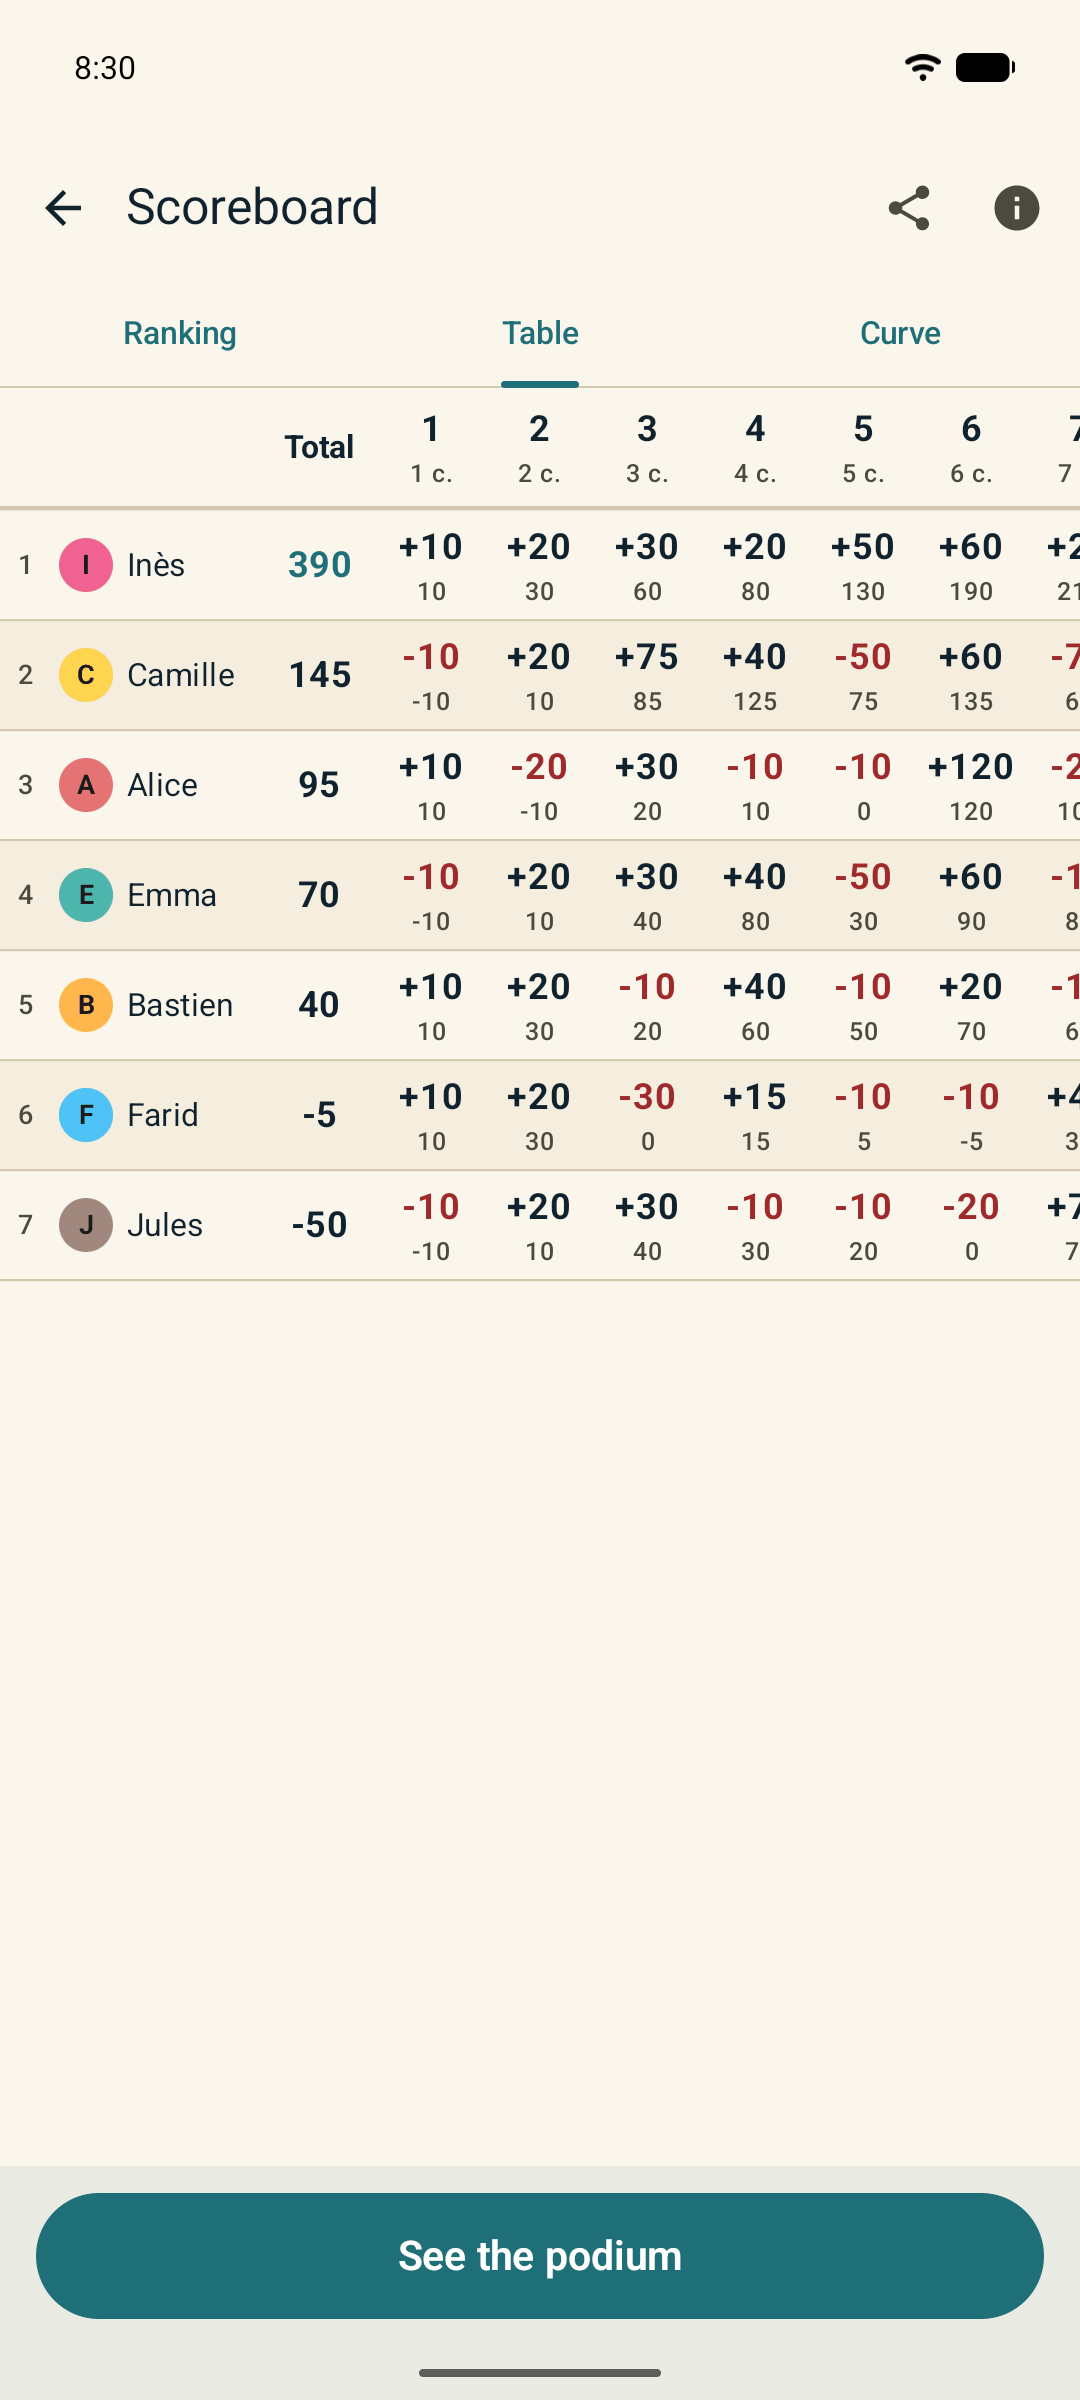
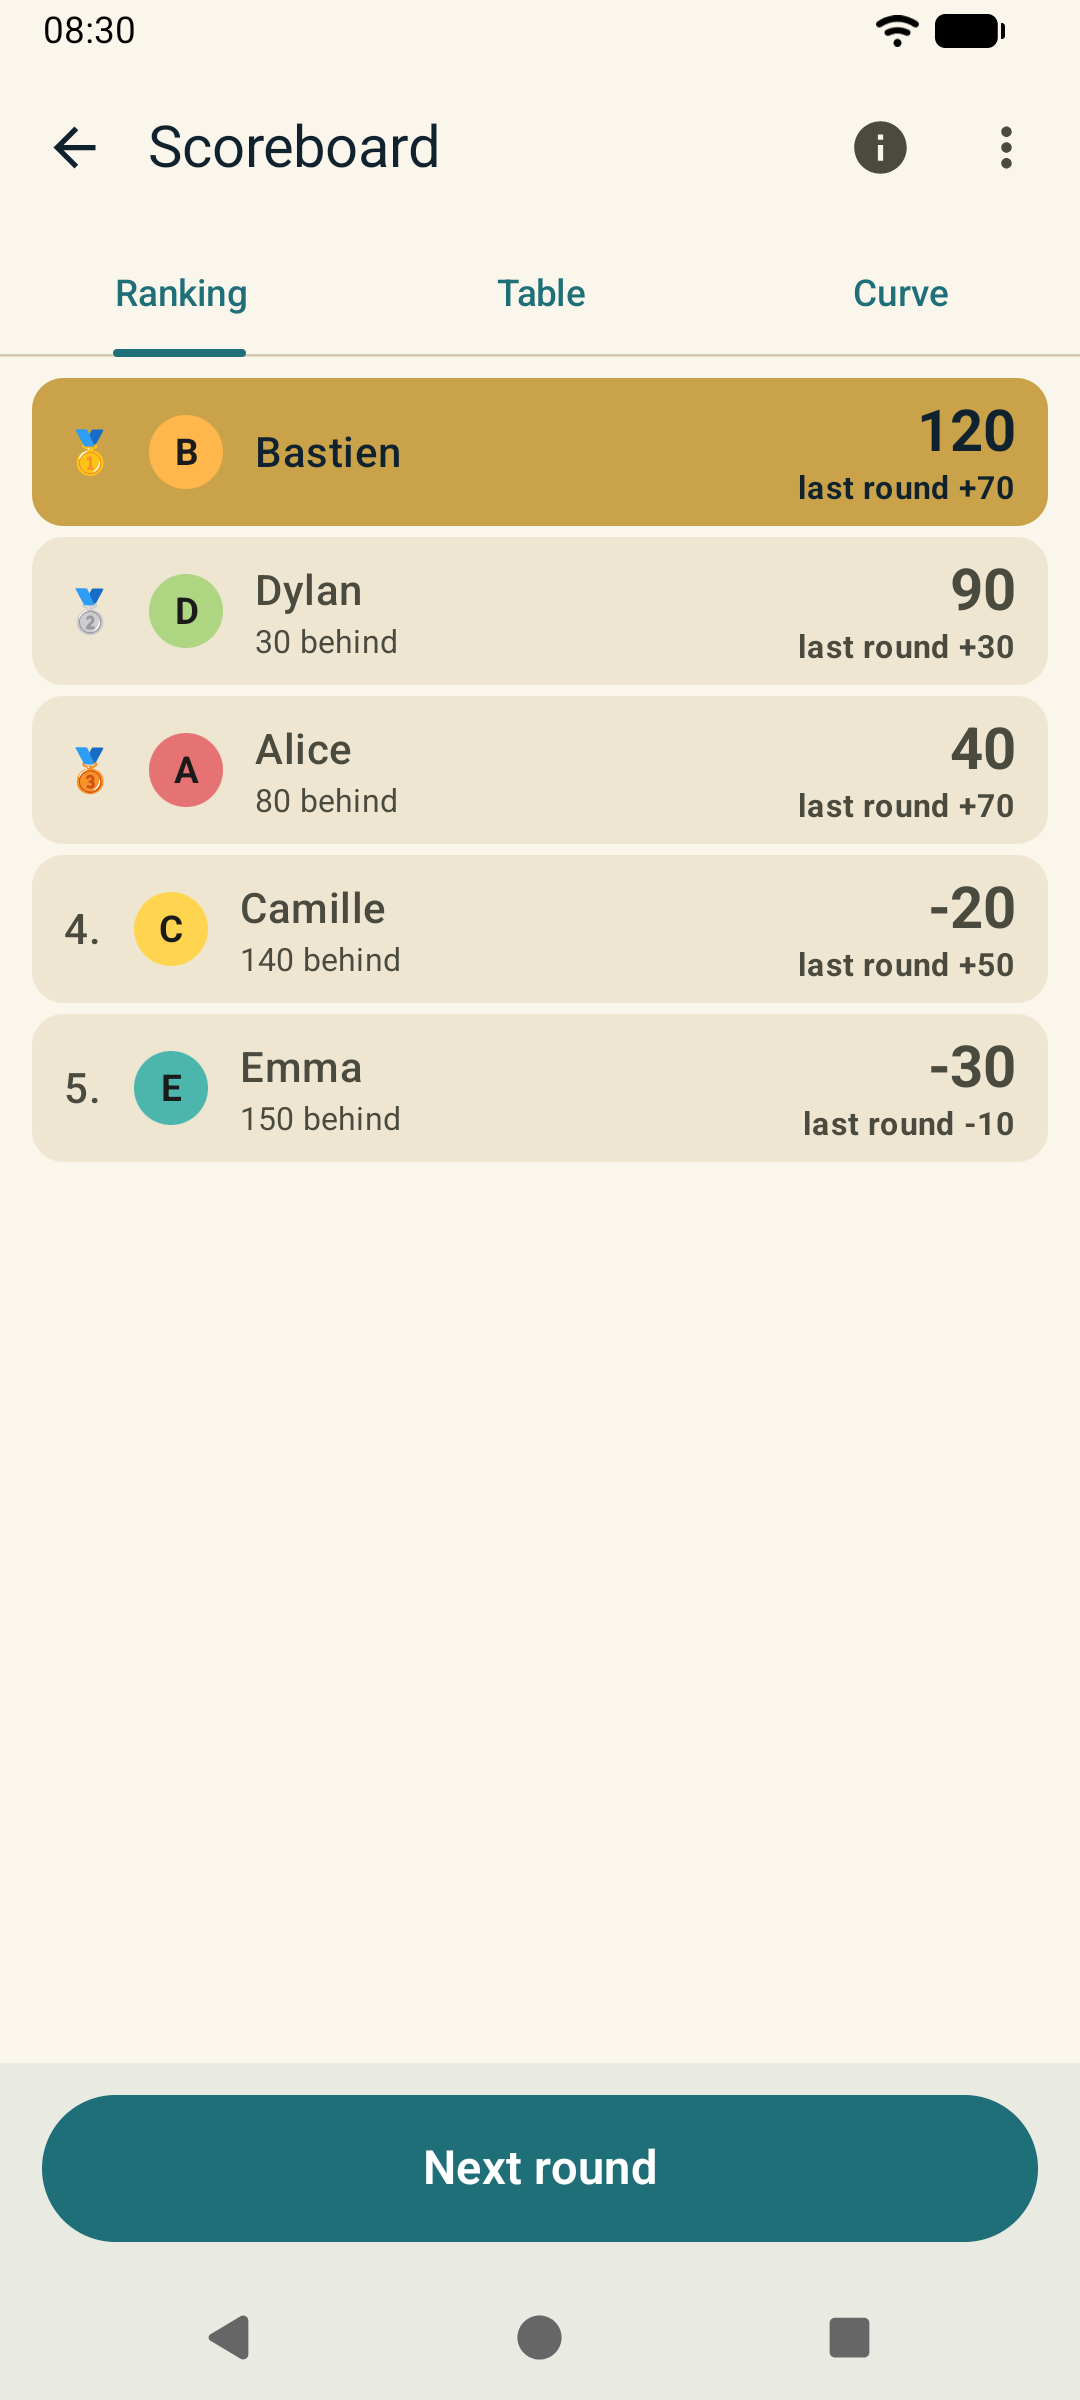
Docs: retake the screenshots, describe how to take them
The 15 README screenshots are retaken with the current screens and light
theme. docs/screenshots/README.md describes the procedure, and
scripts/screenshot.py takes a screenshot with a clean status bar.

diff --git a/scripts/screenshot.py b/scripts/screenshot.py
@@ -1,0 +1,62 @@
+"""Takes a README screenshot from the connected emulator or phone.
+
+Saves docs/screenshots/<name>.png. The notification icons left of the status bar (the emulator shows some
+that the system demo mode cannot hide) are covered with the color of the status bar, so every screenshot
+shows only the clock, the Wi-Fi and the battery. See docs/screenshots/README.md for the whole procedure.
+
+Usage: python scripts/screenshot.py <name>
+Needs adb (ANDROID_HOME, ANDROID_SDK_ROOT, LOCALAPPDATA/Android/Sdk or the PATH) and Pillow.
+"""
+
+import io
+import os
+import shutil
+import subprocess
+import sys
+from pathlib import Path
+
+from PIL import Image, ImageDraw
+
+ROOT = Path(__file__).resolve().parent.parent
+OUT = ROOT / "docs" / "screenshots"
+
+# Notification icons area, as a fraction of the screen: right of the clock, left half of the status bar.
+ICONS_LEFT = 0.135
+ICONS_RIGHT = 0.55
+STATUS_BAR_HEIGHT = 0.03
+
+
+def adb() -> str:
+    for base in (os.environ.get("ANDROID_HOME"), os.environ.get("ANDROID_SDK_ROOT")):
+        if base and (Path(base) / "platform-tools").exists():
+            return str(Path(base) / "platform-tools" / "adb")
+    local = Path(os.environ.get("LOCALAPPDATA", "")) / "Android" / "Sdk" / "platform-tools" / "adb.exe"
+    if local.exists():
+        return str(local)
+    found = shutil.which("adb")
+    if found:
+        return found
+    sys.exit("adb not found: set ANDROID_HOME or add platform-tools to the PATH")
+
+
+def main(name: str) -> None:
+    png = subprocess.run([adb(), "exec-out", "screencap", "-p"], check=True, capture_output=True).stdout
+    image = Image.open(io.BytesIO(png)).convert("RGB")
+    width, height = image.size
+    bar = int(height * STATUS_BAR_HEIGHT)
+    # The color of the status bar, taken in its empty middle.
+    background = image.getpixel((int(width * 0.6), bar // 2))
+    ImageDraw.Draw(image).rectangle(
+        (int(width * ICONS_LEFT), 0, int(width * ICONS_RIGHT), bar),
+        fill=background,
+    )
+    OUT.mkdir(parents=True, exist_ok=True)
+    target = OUT / f"{name}.png"
+    image.save(target, optimize=True)
+    print(f"{target.relative_to(ROOT)} ({width}x{height})")
+
+
+if __name__ == "__main__":
+    if len(sys.argv) != 2:
+        sys.exit(__doc__)
+    main(sys.argv[1])

diff --git a/docs/screenshots/README.md b/docs/screenshots/README.md
@@ -1,0 +1,76 @@
+# Screenshots
+
+The screenshots of the [README](../../README.md) are taken on an emulator (1080 × 2400, Android 15 or later), in
+English, in the light theme, with the [demo data](../../demo/README.md). Retake them whenever a screen they show
+changes, so that the README always shows the current app.
+
+## Prepare the emulator
+
+1. Build and install the debug APK, then set the language and the theme:
+
+   ```bash
+   ./gradlew :app:assembleDebug
+   adb install -r app/build/outputs/apk/debug/app-debug.apk
+   adb shell cmd locale set-app-locales com.skullking.score --locales en
+   adb shell cmd uimode night no
+   ```
+
+   The instrumented tests uninstall the app when they finish: install it again after running them.
+
+2. Freeze the status bar with the system demo mode (08:30, full Wi-Fi and battery):
+
+   ```bash
+   adb shell settings put global sysui_demo_allowed 1
+   adb shell am broadcast -a com.android.systemui.demo -e command enter
+   adb shell am broadcast -a com.android.systemui.demo -e command clock -e hhmm 0830
+   adb shell am broadcast -a com.android.systemui.demo -e command battery -e level 100 -e plugged false
+   adb shell am broadcast -a com.android.systemui.demo -e command network -e wifi show -e level 4 -e fully true -e mobile hide
+   adb shell am broadcast -a com.android.systemui.demo -e command notifications -e visible false
+   ```
+
+   Leave it with `adb shell am broadcast -a com.android.systemui.demo -e command exit`.
+
+3. Import the demo data: `adb push demo/skullking-demo.json /sdcard/Download/`, then in the app
+   **History → Import** and pick `skullking-demo.json` (40 games, 12 players).
+
+## Take a screenshot
+
+```bash
+python scripts/screenshot.py <name>
+```
+
+It saves `docs/screenshots/<name>.png` and covers the notification icons that the emulator keeps in the status bar
+(the demo mode does not hide them). It needs `adb` and Pillow (`pip install pillow`).
+
+## The screenshots
+
+A game in progress is needed first: **New game** with Alice, Bastien, Camille, Dylan and Emma (in this order),
+classic scoring, expansion enabled with every card. Play rounds 1 to 4 with any bids and winners, then:
+
+| File                   | Screen                                                                                       |
+|------------------------|----------------------------------------------------------------------------------------------|
+| `new-game.png`         | New game, scrolled to the five players in seating order (taken before starting the game)      |
+| `expansion.png`        | New game, scrolled to the expansion cards, all enabled (taken before starting the game)       |
+| `bids.png`             | Round 5 bids: Alice 2, Bastien 1, Camille 0, Dylan 1, Emma 2                                  |
+| `trick-entry.png`      | Trick 4 of round 5: Bastien wins with a mermaid, one suit 14 and the Skull King captured      |
+| `play.png`             | Round state dialog (top bar icon of the trick entry), after tricks 1 to 3: Alice with the Skull King and a pirate captured, Emma with Juanita, Dylan with another card |
+| `scoreboard.png`       | Ranking tab of the scoreboard, once round 5 is confirmed                                      |
+| `score-curve.png`      | Curve tab, round 3 tapped                                                                     |
+| `home.png`             | Home screen with the game in progress                                                         |
+| `history.png`          | History, game of Oct 17, 2026 expanded                                                        |
+| `podium.png`           | That game opened: its podium                                                                  |
+| `statistics.png`       | Statistics, Players tab, classic mode                                                         |
+| `card-statistics.png`  | Statistics, Cards tab, classic mode                                                           |
+| `head-to-head.png`     | Head-to-head Farid against Hugo, scrolled to the result                                       |
+| `statistics-image.png` | The image shared from Farid's statistics card, see below                                      |
+| `help.png`             | Help, Cards tab                                                                               |
+
+`statistics-image.png` is the generated image itself, not a screenshot: tap the share icon of Farid's card, close
+the share sheet, then copy the image from the app's cache:
+
+```bash
+adb exec-out run-as com.skullking.score cat cache/exports/skullking-stats-7.png > docs/screenshots/statistics-image.png
+```
+
+The number in the file name is the player's id: list `cache/exports` with `adb shell run-as com.skullking.score ls
+cache/exports` if it differs.

diff --git a/README.md b/README.md
@@ -16,7 +16,7 @@ Your games stay on your phone.
   <img src="docs/screenshots/home.png" width="19%" alt="Home screen with a game in progress" />
   <img src="docs/screenshots/new-game.png" width="19%" alt="New game: players in table order and dealer" />
   <img src="docs/screenshots/bids.png" width="19%" alt="Bids of a round" />
-  <img src="docs/screenshots/play.png" width="19%" alt="Round in progress, trick by trick" />
+  <img src="docs/screenshots/play.png" width="19%" alt="Round state: bids against tricks won, tricks and events" />
   <img src="docs/screenshots/trick-entry.png" width="19%" alt="Trick entry: winner, card and captured cards" />
 </p>
 
@@ -82,7 +82,7 @@ A mistake? Undo the last trick, or correct any past round: the whole game is rec
 - Built-in help with search: card hierarchy, scoring, expansion and FAQ, aligned with the official rules
 
 <p align="center">
-  <img src="docs/screenshots/scoreboard.png" width="19%" alt="Scoreboard table" />
+  <img src="docs/screenshots/scoreboard.png" width="19%" alt="Scoreboard ranking with the points of the last round" />
   <img src="docs/screenshots/score-curve.png" width="19%" alt="Score curve of a game" />
   <img src="docs/screenshots/podium.png" width="19%" alt="Podium at the end of a game" />
   <img src="docs/screenshots/history.png" width="19%" alt="History with an expanded game" />
@@ -168,7 +168,8 @@ global coverage shown by the badge above and comments on each pull request (`uni
 
 [`demo/skullking-demo.json`](demo/README.md) contains 12 players and 40 finished games (3 to 8 players, with or
 without the expansion, in the three modes). Import it from **History → Import**. The procedure and how to regenerate
-it are described in [`demo/README.md`](demo/README.md). The screenshots above are taken with it.
+it are described in [`demo/README.md`](demo/README.md). The screenshots above are taken with it, following
+[`docs/screenshots/README.md`](docs/screenshots/README.md).
 
 ## Continuous integration
 
